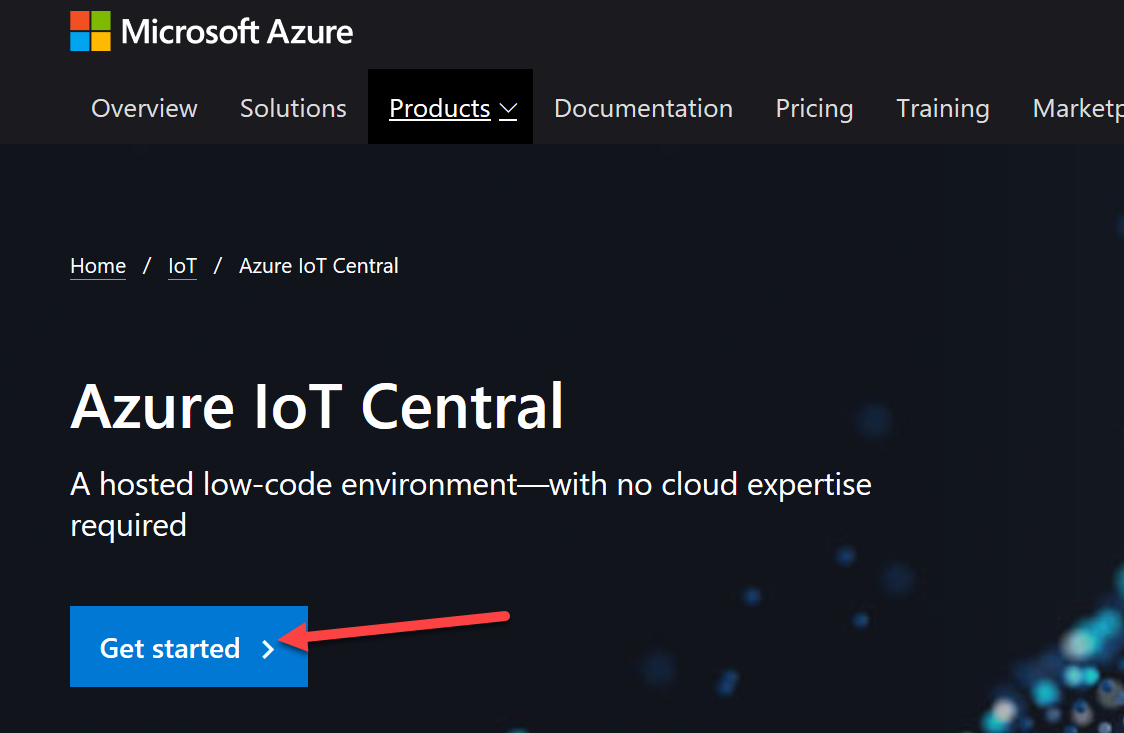
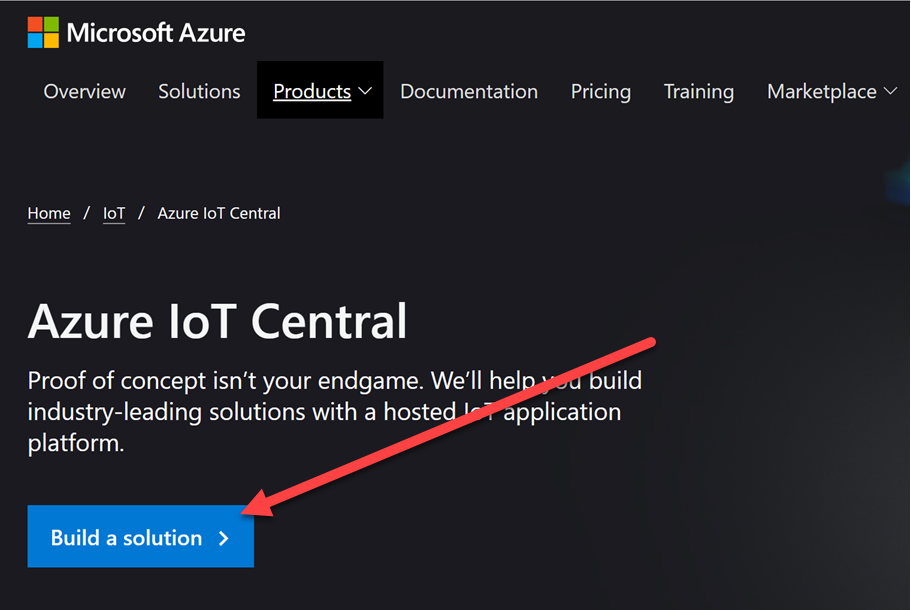
Updated tasks 1 and 2

diff --git a/Hands-on lab/HOL step-by step - Predictive Maintenance for remote field devices.md b/Hands-on lab/HOL step-by step - Predictive Maintenance for remote field devices.md
@@ -27,49 +27,49 @@ Microsoft and the trademarks listed at <https://www.microsoft.com/en-us/legal/in
 <!-- TOC -->
 
 - [Predictive Maintenance for remote field devices hands-on lab step-by-step](#predictive-maintenance-for-remote-field-devices-hands-on-lab-step-by-step)
-    - [Abstract and learning objectives](#abstract-and-learning-objectives)
-    - [Overview](#overview)
-    - [Solution architecture](#solution-architecture)
-    - [Requirements](#requirements)
-    - [Before the hands-on lab](#before-the-hands-on-lab)
-    - [Exercise 1: Configuring IoT Central with devices and metadata](#exercise-1-configuring-iot-central-with-devices-and-metadata)
-        - [Task 1: Model the telemetry data](#task-1-model-the-telemetry-data)
-            - [Telemetry Schema](#telemetry-schema)
-        - [Task 2: Create an IoT Central Application](#task-2-create-an-iot-central-application)
-        - [Task 3: Create the Device Template](#task-3-create-the-device-template)
-        - [Task 4: Create and provision real devices](#task-4-create-and-provision-real-devices)
-        - [Task 5: Delete the simulated device](#task-5-delete-the-simulated-device)
-    - [Exercise 2: Run the Rod Pump Simulator](#exercise-2-run-the-rod-pump-simulator)
-        - [Task 1: Generate device connection strings](#task-1-generate-device-connection-strings)
-        - [Task 2: Open the Visual Studio solution, and update connection string values](#task-2-open-the-visual-studio-solution-and-update-connection-string-values)
-        - [Task 3: Run the application](#task-3-run-the-application)
-        - [Task 4: Interpret telemetry data](#task-4-interpret-telemetry-data)
-        - [Task 5: Restart a failing pump remotely](#task-5-restart-a-failing-pump-remotely)
-    - [Exercise 3: Creating a device set](#exercise-3-creating-a-device-set)
-        - [Task 1: Create a device set using a filter](#task-1-create-a-device-set-using-a-filter)
-    - [Exercise 4: Creating a useful dashboard](#exercise-4-creating-a-useful-dashboard)
-        - [Task 1: Clearing out the default dashboard](#task-1-clearing-out-the-default-dashboard)
-        - [Task 2: Add your company logo](#task-2-add-your-company-logo)
-        - [Task 3: Add a list of Texas Rod Pumps](#task-3-add-a-list-of-texas-rod-pumps)
-        - [Task 4: Add a map displaying the power state of DEVICE001](#task-4-add-a-map-displaying-the-power-state-of-device001)
-    - [Exercise 5: Create an Event Hub and continuously export data from IoT Central](#exercise-5-create-an-event-hub-and-continuously-export-data-from-iot-central)
-        - [Task 1: Create an Event Hub](#task-1-create-an-event-hub)
-        - [Task 2: Configure continuous data export from IoT Central](#task-2-configure-continuous-data-export-from-iot-central)
-    - [Exercise 6: Use Azure Databricks and Azure Machine Learning service to train and deploy predictive model](#exercise-6-use-azure-databricks-and-azure-machine-learning-service-to-train-and-deploy-predictive-model)
-        - [Task 1: Run the Anomaly Detection notebook](#task-1-run-the-anomaly-detection-notebook)
-    - [Exercise 7: Create an Azure Function to predict pump failure](#exercise-7-create-an-azure-function-to-predict-pump-failure)
-        - [Task 1: Create an Azure Function Application](#task-1-create-an-azure-function-application)
-        - [Task 2: Create a notification table in Azure Storage](#task-2-create-a-notification-table-in-azure-storage)
-        - [Task 3: Create a notification queue in Azure Storage](#task-3-create-a-notification-queue-in-azure-storage)
-        - [Task 4: Create notification service in Microsoft Flow](#task-4-create-notification-service-in-microsoft-flow)
-        - [Task 5: Obtain connection settings for use with the Azure Function implementation](#task-5-obtain-connection-settings-for-use-with-the-azure-function-implementation)
-        - [Task 6: Create the local settings file for the Azure Functions project](#task-6-create-the-local-settings-file-for-the-azure-functions-project)
-        - [Task 7: Review the Azure Function code](#task-7-review-the-azure-function-code)
-        - [Task 8: Run the Function App locally](#task-8-run-the-function-app-locally)
-        - [Task 9: Prepare the Azure Function App with settings](#task-9-prepare-the-azure-function-app-with-settings)
-        - [Task 10: Deploy the Function App into Azure](#task-10-deploy-the-function-app-into-azure)
-    - [After the hands-on lab](#after-the-hands-on-lab)
-        - [Task 1: Delete Lab Resources](#task-1-delete-lab-resources)
+  - [Abstract and learning objectives](#abstract-and-learning-objectives)
+  - [Overview](#overview)
+  - [Solution architecture](#solution-architecture)
+  - [Requirements](#requirements)
+  - [Before the hands-on lab](#before-the-hands-on-lab)
+  - [Exercise 1: Configuring IoT Central with devices and metadata](#exercise-1-configuring-iot-central-with-devices-and-metadata)
+    - [Task 1: Model the telemetry data](#task-1-model-the-telemetry-data)
+      - [Telemetry Schema](#telemetry-schema)
+    - [Task 2: Create an IoT Central Application](#task-2-create-an-iot-central-application)
+    - [Task 3: Create the Device Template](#task-3-create-the-device-template)
+    - [Task 4: Create and provision real devices](#task-4-create-and-provision-real-devices)
+    - [Task 5: Delete the simulated device](#task-5-delete-the-simulated-device)
+  - [Exercise 2: Run the Rod Pump Simulator](#exercise-2-run-the-rod-pump-simulator)
+    - [Task 1: Generate device connection strings](#task-1-generate-device-connection-strings)
+    - [Task 2: Open the Visual Studio solution, and update connection string values](#task-2-open-the-visual-studio-solution-and-update-connection-string-values)
+    - [Task 3: Run the application](#task-3-run-the-application)
+    - [Task 4: Interpret telemetry data](#task-4-interpret-telemetry-data)
+    - [Task 5: Restart a failing pump remotely](#task-5-restart-a-failing-pump-remotely)
+  - [Exercise 3: Creating a device set](#exercise-3-creating-a-device-set)
+    - [Task 1: Create a device set using a filter](#task-1-create-a-device-set-using-a-filter)
+  - [Exercise 4: Creating a useful dashboard](#exercise-4-creating-a-useful-dashboard)
+    - [Task 1: Clearing out the default dashboard](#task-1-clearing-out-the-default-dashboard)
+    - [Task 2: Add your company logo](#task-2-add-your-company-logo)
+    - [Task 3: Add a list of Texas Rod Pumps](#task-3-add-a-list-of-texas-rod-pumps)
+    - [Task 4: Add a map displaying the power state of DEVICE001](#task-4-add-a-map-displaying-the-power-state-of-device001)
+  - [Exercise 5: Create an Event Hub and continuously export data from IoT Central](#exercise-5-create-an-event-hub-and-continuously-export-data-from-iot-central)
+    - [Task 1: Create an Event Hub](#task-1-create-an-event-hub)
+    - [Task 2: Configure continuous data export from IoT Central](#task-2-configure-continuous-data-export-from-iot-central)
+  - [Exercise 6: Use Azure Databricks and Azure Machine Learning service to train and deploy predictive model](#exercise-6-use-azure-databricks-and-azure-machine-learning-service-to-train-and-deploy-predictive-model)
+    - [Task 1: Run the Anomaly Detection notebook](#task-1-run-the-anomaly-detection-notebook)
+  - [Exercise 7: Create an Azure Function to predict pump failure](#exercise-7-create-an-azure-function-to-predict-pump-failure)
+    - [Task 1: Create an Azure Function Application](#task-1-create-an-azure-function-application)
+    - [Task 2: Create a notification table in Azure Storage](#task-2-create-a-notification-table-in-azure-storage)
+    - [Task 3: Create a notification queue in Azure Storage](#task-3-create-a-notification-queue-in-azure-storage)
+    - [Task 4: Create notification service in Microsoft Flow](#task-4-create-notification-service-in-microsoft-flow)
+    - [Task 5: Obtain connection settings for use with the Azure Function implementation](#task-5-obtain-connection-settings-for-use-with-the-azure-function-implementation)
+    - [Task 6: Create the local settings file for the Azure Functions project](#task-6-create-the-local-settings-file-for-the-azure-functions-project)
+    - [Task 7: Review the Azure Function code](#task-7-review-the-azure-function-code)
+    - [Task 8: Run the Function App locally](#task-8-run-the-function-app-locally)
+    - [Task 9: Prepare the Azure Function App with settings](#task-9-prepare-the-azure-function-app-with-settings)
+    - [Task 10: Deploy the Function App into Azure](#task-10-deploy-the-function-app-into-azure)
+  - [After the hands-on lab](#after-the-hands-on-lab)
+    - [Task 1: Delete Lab Resources](#task-1-delete-lab-resources)
 
 <!-- /TOC -->
 
@@ -91,7 +91,7 @@ The Predictive Maintenance for Remote Field Devices hands-on lab is an exercise 
 
 ![The architecture diagram shows the components of the preferred solution.](../Media/preferred-solution.png "High-level architecture")
 
-[Azure IoT Central](https://docs.microsoft.com/azure/iot-central/overview-iot-central) is at the core of the preferred solution. It is used for data ingest, device management, data storage, and reporting. IoT field devices securely connect to IoT Central through its cloud gateway. The continuous export component sends device telemetry data to [Azure Blob storage](https://docs.microsoft.com/azure/storage/blobs/storage-blobs-overview) for cold storage, and the same data to [Azure Event Hubs](https://docs.microsoft.com/azure/event-hubs/event-hubs-about) for real-time processing. Azure Databricks uses the data stored in cold storage to periodically re-train a Machine Learning (ML) model to detect oil pump failures. It is also used to deploy the trained model to a web service hosted by [Azure Kubernetes Service](https://docs.microsoft.com/azure/aks/) (AKS) or [Azure Container Instances](https://docs.microsoft.com/azure/container-instances/) (ACI), using [Azure Machine Learning service](https://docs.microsoft.com/azure/machine-learning/service/overview-what-is-azure-ml). An [Azure function](https://docs.microsoft.com/azure/azure-functions/functions-overview) is triggered by events flowing through Event Hubs. It sends the event data for each pump to the web service hosting the deployed model, then sends an alert through [Microsoft Flow](https://flow.microsoft.com/) if an alert has not been sent within a configurable period of time. The alert is sent in the form of an email, identifying the failing oil pump with a suggestion to service the device.
+[Azure IoT Central](https://docs.microsoft.com/azure/iot-central/overview-iot-central) is at the core of the preferred solution. It is used for data ingest, device management, data storage, and reporting. IoT field devices securely connect to IoT Central through its cloud gateway. The continuous export component sends device telemetry data to [Azure Blob storage](https://docs.microsoft.com/azure/storage/blobs/storage-blobs-overview) for cold storage, and the same data to [Azure Event Hubs](https://docs.microsoft.com/azure/event-hubs/event-hubs-about) for real-time processing. Azure Databricks uses the data stored in cold storage to periodically re-train a Machine Learning (ML) model to detect oil pump failures. It is also used to deploy the trained model to a web service hosted by [Azure Kubernetes Service](https://docs.microsoft.com/azure/aks/) (AKS) or [Azure Container Instances](https://docs.microsoft.com/azure/container-instances/) (ACI), using [Azure Machine Learning](https://docs.microsoft.com/azure/machine-learning/service/overview-what-is-azure-ml). An [Azure function](https://docs.microsoft.com/azure/azure-functions/functions-overview) is triggered by events flowing through Event Hubs. It sends the event data for each pump to the web service hosting the deployed model, then sends an alert through [Microsoft Flow](https://flow.microsoft.com/) if an alert has not been sent within a configurable period of time. The alert is sent in the form of an email, identifying the failing oil pump with a suggestion to service the device.
 
 _Azure IoT Central architecture_
 
@@ -146,31 +146,35 @@ The telemetry being reported by the Fabrikam rod pumps are as follows, we will b
 
 1. Access the (Azure IoT Central)[https://azure.microsoft.com/en-us/services/iot-central/] website.
 
-2. Press the _Get started_ button.
+2. Select the _Build a solution_ button.
 
-    ![The browser screen shows the Azure products filtered to Azure IoT Central. An arrow points to the Get started button.](media/azure-iot-central-website.png "IoT Central Getting started")
+    ![The browser screen shows the Azure products filtered to Azure IoT Central. An arrow points to the Build a solution button.](media/azure-iot-central-website.png "IoT Central Getting started")
 
 3. If you are not currently logged in, you will be prompted to log in with your Microsoft Azure Account.
 
-4. Press the _New Application_ button.
+4. Select **My Apps** from the left-hand menu, then select the **New application** button.
 
     ![The screens displays the list of my applications and options for creating a new application.](media/azure-iot-central-new-application.png "New Application")
 
-5. Fill in the provisioning form.
+5. Select **Custom app**.
+
+    ![The custom app option is selected.](media/azure-iot-central-custom-app.png "Custom app")
+
+6. Fill in the provisioning form.
 
     ![The screens displays the new application configuration options. The Trial payment plan is selected.](media/custom-app-creation-form.png "Provision application form")
 
-    a. *Payment Plan* - feel free to choose either the 7 day trial or the Pay as you Go option.
+    a. *Application Name* - give your application a name of your choice, in this example, we used *fabrikam-oil*.
 
-    b. *Application Template* - select *Custom Application*.
+    b. *URL* - this will be the URL for your application, it needs to be globally unique.
 
-    c. *Application Name* - give your application a name of your choice, in this example, we used *fabrikam-oil*.
+    c. *Application Template* - select *Preview application*.
 
-    d. *URL* - this will be the URL for your application, it needs to be globally unique.
+    d. *7 day free trial* - select this option to enable the free trial.
 
     e. Fill out your contact information (First Name, Last Name, Email Address, Phone Number, Country/Region).
 
-    f. Press the *Create* button to provision your application.
+    f. Select the *Create* button to provision your application.
 
 ### Task 3: Create the Device Template
 
